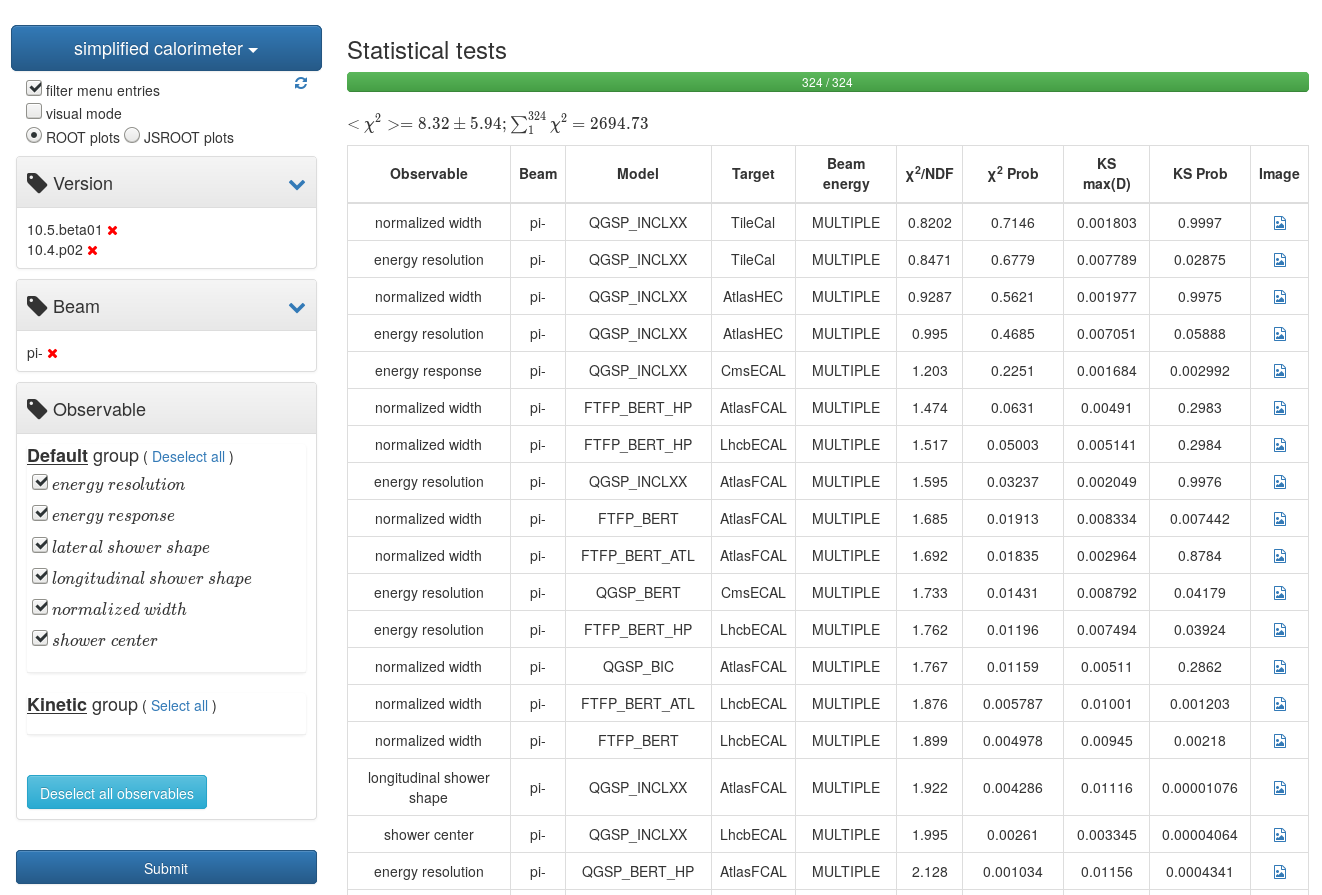
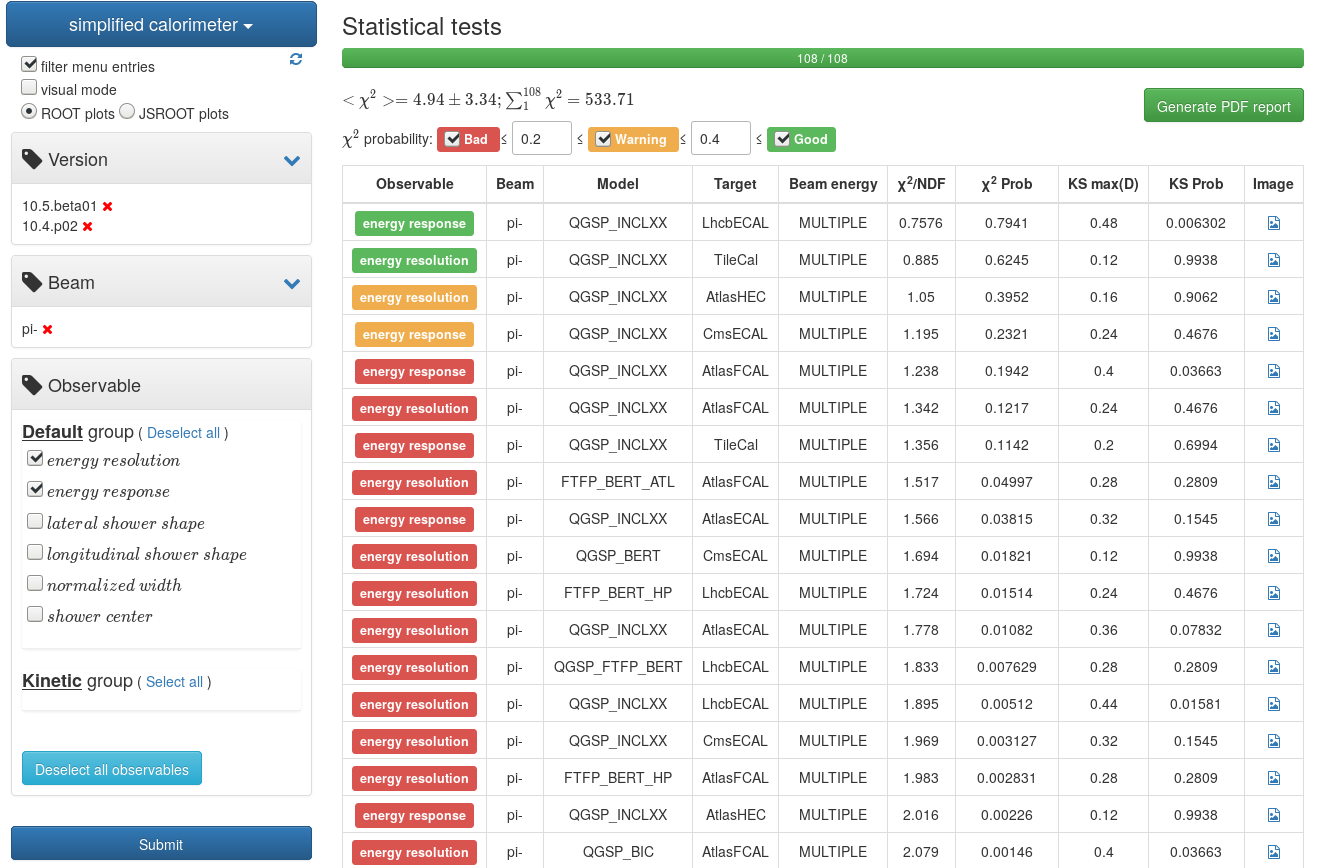
Updates from ShareLaTeX

diff --git a/interface.tex b/interface.tex
@@ -3,19 +3,18 @@
 
 The \textsf{Geant-val} website provides two ways of viewing and comparing results:
 
-\begin{figure}[h]
-    \centering
-    \includegraphics[width=0.8\textwidth,clip]{layout_sc.png}
-    \caption{Layout for the Geant4 "simplified calorimeter" test with results for Geant4 reference releases 10.4.ref07, 10.4.ref08 and physics lists FTFP\_BERT and QGSP\_BERT.}
-    \label{fig:layouts}
-\end{figure}
+\begin{itemize}
 
-\textit{Statistical comparisons} page allows one to perform comparison of simulation with compatible experimental results using statistical tests and visually. % It displays results of statistical comparison for pairs of plots with the same parameters' values.
+
+
+\item \textit{Statistical comparisons} page allows one to perform comparison of simulation with compatible experimental results using statistical tests and visually. % It displays results of statistical comparison for pairs of plots with the same parameters' values.
 
 In visual mode  (see Fig.~\ref{fig:sc_visual_ratio}) one can select various parameters in left side drop down menu and request plots corresponding selected values. In this mode page it is possible to mark one Geant4 release as "reference" to get ratio plots between several results.
 
 In statistical mode (see Fig.~\ref{fig:statcomparison}) the page shows results of $\chi^2$ ($\chi^2/n.d.f.$, $\chi^2$ probability) and Kolmogorov-Smirnov (KS Max(D), KS probability) tests between two Geant4 releases for all matching pairs of test results.
-All computations are performed asynchronously on the client side using JavaScript WebWorkers. For this purpose, JavaScript code to perform $\chi^2$ and Kolmogorov-Smirnov tests have been written, and their results cross-checked against the same statistical techniques implemented in the ROOT framework ({\tt ROOT::TH1::Chi2Test()} and {\tt ROOT:TMath::KolmogorovTest()} correspondingly).
+All computations are fast and performed asynchronously on the client side using JavaScript WebWorkers. For this purpose, JavaScript code to perform $\chi^2$ and Kolmogorov-Smirnov tests have been written, and their results cross-checked against the same statistical techniques implemented in the ROOT framework ({\tt ROOT::TH1::Chi2Test()} and {\tt ROOT:TMath::KolmogorovTest()} correspondingly).
+
+Users can specify range of $\chi^2$ probability to mark results with ''bad'', ''warning'' and ''good'' tags and/or hide classified tags independently. Further it is possible to download PDF report with plots.
 
 \begin{figure}[h]
     \centering
@@ -33,4 +32,17 @@ All computations are performed asynchronously on the client side using JavaScrip
 
 
 
-\textit{User layouts} page (see Fig.~\ref{fig:layouts}). Some Geant4 tests produce hundreds of different plots, but for fast "visual" validation it is often enough to compare only a small well-defined subset of them. The \textit{layout} is an XML file describing what plots should be displayed and how should they be laid out on a page. User can use one of the existing layouts or define their own one.
+\item \textit{User layouts} page (see Fig.~\ref{fig:layouts}). Some Geant4 tests produce hundreds of different plots, but for fast "visual" validation it is often enough to compare only a small well-defined subset of them. On the page user needs just to select layout to be used, Geant4 version(s) and physics list(s) and experimental data to be used. All other plot's parameters should be defined in layout file. It allows to perform fast and clear visual comparing of several Geant4 versions/physics lists. For all plots there is possibility to request ratio plots to see difference between them in detail.
+
+The \textit{layout} is an XML file describing what plots should be displayed and how should they be laid out on a page. We provide layouts for integrated tests however users can define and use on the website their own one.
+
+\begin{figure}[h]
+    \centering
+    \includegraphics[width=0.8\textwidth,clip]{layout_sc.png}
+    \caption{Layout for the Geant4 "simplified calorimeter" test with results for Geant4 reference releases 10.4.ref07, 10.4.ref08 and physics lists FTFP\_BERT and QGSP\_BERT.}
+    \label{fig:layouts}
+\end{figure}
+
+\end{itemize}
+
+In both comparison modes users can change plot's axes ranges/scales and download them in PNG, EPS, ROOT formats. Raw plot's data in Gnuplot and the website's JSON formats are also accessible.

diff --git a/requirements.tex b/requirements.tex
@@ -11,15 +11,18 @@ Below is a brief list of the design ideas that were trying to implement in this 
     \item Creation of high quality plots with possibility to change plot style, ranges, scales, etc. on the web site;
     % \item Providing to users as much information about tests results as possible;
     % \item High parallelism to run and analyse a large set of Geant4 tests in reasonable time; % To achieve this the system should provide a way to run Geant4 tests in highly diversified jobs in batch systems.
-    \item Intuitive, modern and fast user interface.
+    \item Intuitive, modern and fast user interface;
     %% \item Scalability: 
+    \item Usage of technologies allowing fast feature developing and integration processes.
 \end{itemize}
 
-The application is deployed on CERN VM service and distributed as Docker image. The website is optimised for asynchronous access and plotting and can be easily horizontally scaled by launching new instances as the application has no software and hardware requirements except presence of Docker server.
+To implement these ideas in practice we decided to use JavaScript on server (Node.js) and client (AngularJS) components of the application together with Python and C++ utilities. To produce high quality plots we used ROOT framework extended with JSROOT library to provide interactive plots on the web pages.
 
-A \textit{plot} is a central element of the data model of \textsf{Geant-val} application. Each plot consists of:
+For fast deploying we distribute the application as Docker image which is hosted on virtual machine provided by CERN VM service. The website is optimised for asynchronous access and plotting and can be easily ''horizontally'' scaled by launching new instances as the application has no software and hardware requirements except presence of Docker server.
+
+To keep data consistency over all application services a \textit{plot} data type is introduced. A \textit{plot} is a central element of the data model of \textsf{Geant-val} application. Each \textit{plot} consists of:
 \begin{itemize}
-    \item Arrays describing histograms or scatter plots (including uncertainties);
+    \item Data in histograms or scatter plots (including statistical and systematic uncertainties);
     \item Meta data (all fields are mandatory):
     \begin{itemize}
         \item Name of the measured physics value, which used for matching \textit{plot} to the experimental data;
@@ -35,4 +38,6 @@ A \textit{plot} is a central element of the data model of \textsf{Geant-val} app
     \item Inspire~\cite{inspire} or HepDATA~\cite{hepdata} Id of the original article (only for experimental data).
 \end{itemize}
 
-\textit{Plot} type is used as interface for data communication between different parts of the web application. They are used for uploading data to the database, generating plots in standalone C++ plotter utility, displaying data on the web page, calculating result of statistical tests etc.
+\textit{Plot} type is used as interface for data communication between different parts of the web application and represented in JSON format. They are used for uploading data to the database, generating plots in standalone C++ plotter utility, displaying data on the web page, calculating result of statistical tests etc.
+
+To produce and convert tests results to \textit{plot}'s JSON files we developed Python system {\tt mc-config-generator}. This tool provides uniform way to configure, run in batch systems (LSF, Torque PBS, HTCondor) and analyse test's jobs including exceptions and timing statistics. 

diff --git a/conclusion.tex b/conclusion.tex
@@ -1,7 +1,9 @@
 \section{Conclusion}
 \label{sec-status}
 
-The presented software provides an uniform and clear way of performing all stages of physics validation: from creating configuration files and running simulation code to producing final plots.
+The presented software provides an uniform and clear way of performing all stages of physics validation: from creating configuration files and running simulation code to producing and analysing final plots.
+
+Convenient and practical web interface allows users easily determine changes or models which leads to agreement improvement or degradation with other results or experimental data. Job's submission system allows to submit thousands of test's jobs with further timing, Geant4 exceptions and data analysis.
 
 The \textsf{Geant-val} web application
 % and the {\tt mc-config-generator} framework are 

diff --git a/bibliography.tex b/bibliography.tex
@@ -41,6 +41,6 @@ AngularJS is an MWM JavaScript framework \url{https://angularjs.org/}
 Bertrand Bellenot and Sergey Linev 2015, J. Phys.: Conf. Ser.,664,  062033
 
 \bibitem{gnuplot}
-Gnuplot is a portable command-line driven graphing utility \url{http://www.gnuplot.info/}
+Gnuplot, a portable command-line driven graphing utility \url{http://www.gnuplot.info/}
 
 \end{thebibliography}
